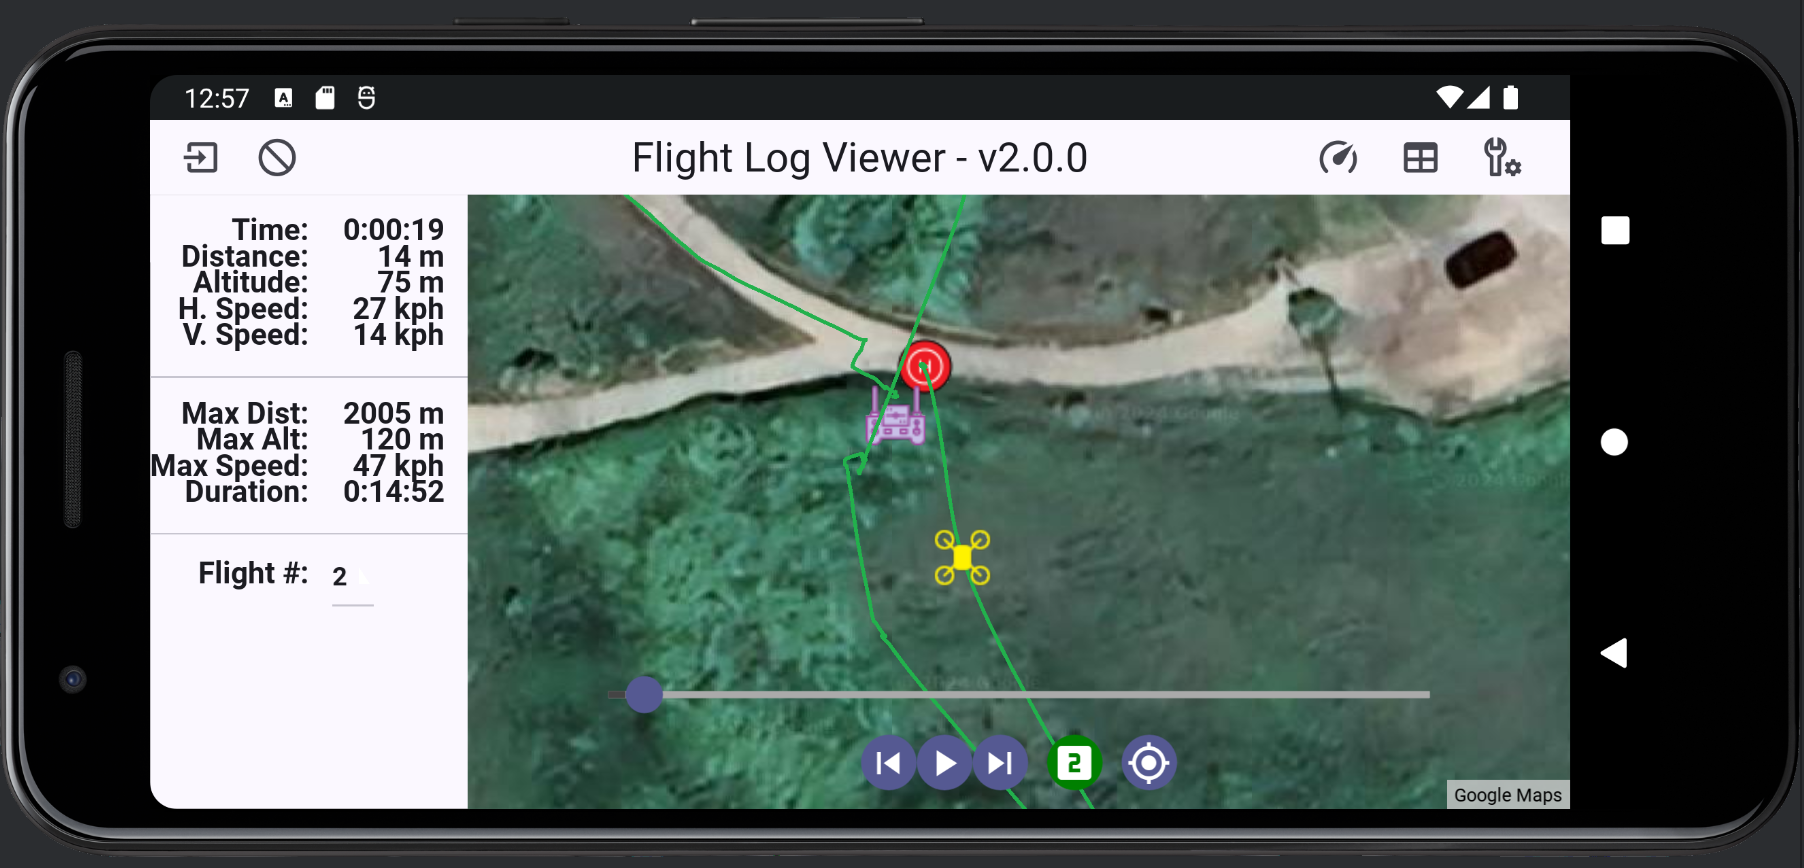
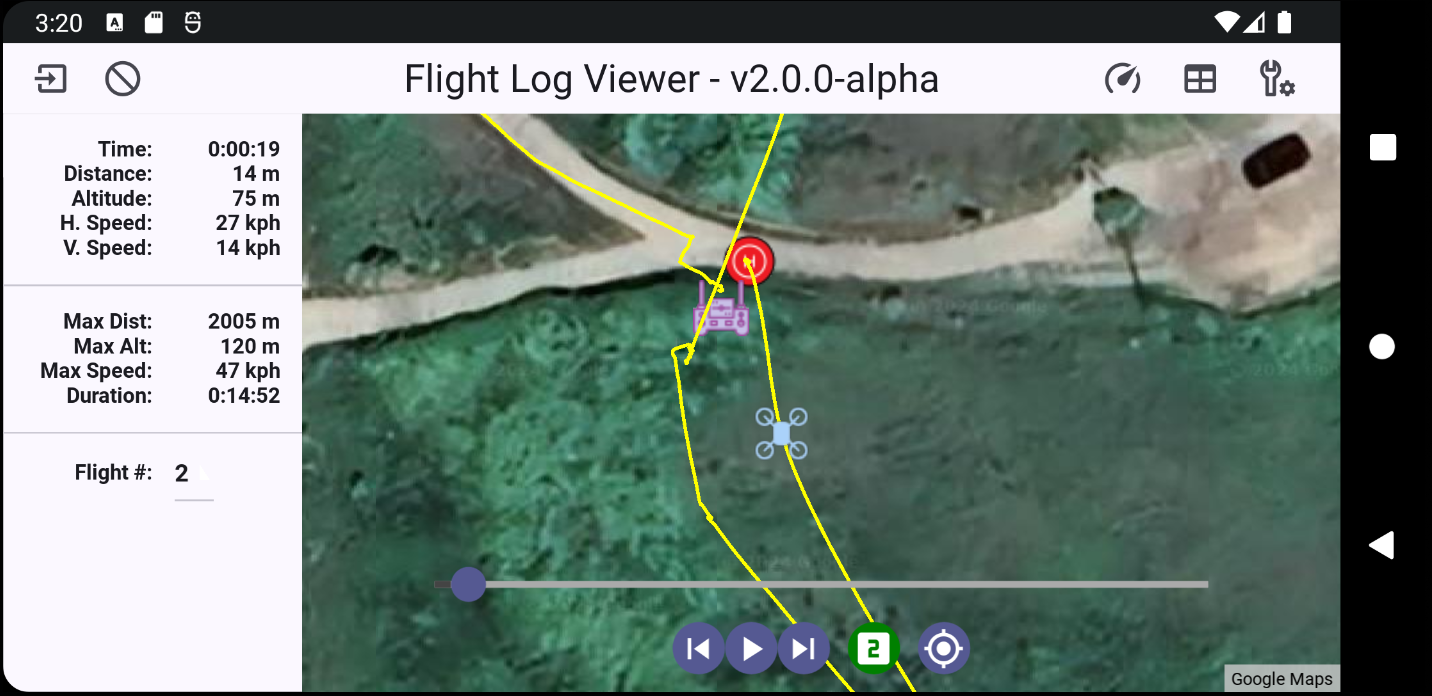
Minor font size tweaks.

diff --git a/src/main.py b/src/main.py
@@ -79,7 +79,7 @@ class MainApp(MDApp):
     '''
     Global variables and constants.
     '''
-    appVersion = "v2.0.0"
+    appVersion = "v2.0.0-alpha"
     appName = "Flight Log Viewer"
     appTitle = f"{appName} - {appVersion}"
     defaultMapZoom = 3
@@ -696,18 +696,26 @@ class MainApp(MDApp):
     '''
     def set_frame(self):
         refreshRate = float(re.sub("[^0-9\.]", "", self.root.ids.selected_refresh_rate.text))
+        totalTimeElapsed = self.logdata[self.currentRowIdx][self.columns.index('time')]
+        prevTs = None
+        timeElapsed = None
         while (not self.stopRequested) and (self.currentRowIdx < self.currentEndIdx):
             self.set_markers()
             time.sleep(refreshRate)
-            runningTs = datetime.datetime.now() - self.playStartTs
-            while self.currentRowIdx <= self.currentEndIdx and self.logdata[self.currentRowIdx][self.columns.index('time')] < runningTs:
+            now = datetime.datetime.now()
+            timeElapsed = now - prevTs if prevTs else datetime.timedelta()
+            if self.playback_speed > 1:
+                timeElapsed = timeElapsed * self.playback_speed
+            totalTimeElapsed = totalTimeElapsed + timeElapsed
+            prevTs = now
+            while self.currentRowIdx <= self.currentEndIdx and self.logdata[self.currentRowIdx][self.columns.index('time')] < totalTimeElapsed:
                 self.currentRowIdx = self.currentRowIdx + 1
         self.isPlaying = False
         self.stopRequested = False
 
 
     def select_flight_progress(self, slider, coords):
-        if (slider.is_updating):
+        if (slider.is_updating): # Check if slider value is being updated from outside the slider (i.e. playback)
             return
         if len(self.logdata) == 0:
             return # Do nothing
@@ -733,6 +741,18 @@ class MainApp(MDApp):
         if nearestIdx >= 0:
             self.currentRowIdx = nearestIdx
             self.set_markers(False)
+
+
+    def change_playback_speed(self):
+        if self.playback_speed == 1:
+            self.playback_speed = 2
+        elif self.playback_speed == 2:
+            self.playback_speed = 4
+        elif self.playback_speed == 4:
+            self.playback_speed = 8
+        else:
+            self.playback_speed = 1
+        self.root.ids.speed_indicator.icon = f"numeric-{self.playback_speed}-box"
 
 
     '''
@@ -811,7 +831,6 @@ class MainApp(MDApp):
             return
         if self.currentRowIdx == self.currentEndIdx:
             self.currentRowIdx = self.currentStartIdx
-        self.playStartTs = datetime.datetime.now() - self.logdata[self.currentRowIdx][self.columns.index('time')]
         self.root.ids.flight_progress.is_updating = True
         self.isPlaying = True
         self.root.ids.playbutton.icon = "pause"
@@ -1053,6 +1072,7 @@ class MainApp(MDApp):
     def reset(self):
         self.centerlat = 51.50722
         self.centerlon = -0.1275
+        self.playback_speed = 1
         if self.root:
             self.root.ids.selected_path.text = '--'
             self.zoom = self.defaultMapZoom
@@ -1074,6 +1094,7 @@ class MainApp(MDApp):
             self.root.ids.value2_elapsed.text = ""
             self.root.ids.flight_progress.value = 0
             self.root.ids.flight_stats_grid.clear_widgets()
+            self.root.ids.speed_indicator.icon = f"numeric-{self.playback_speed}-box"
         self.flightOptions = []
         self.title = self.appTitle
         self.logdata = []
@@ -1155,6 +1176,7 @@ class MainApp(MDApp):
         self.dronemarker = None
         self.flightStats = None
         self.stopRequested = False
+        self.playback_speed = 1
 
 
     def build(self):
